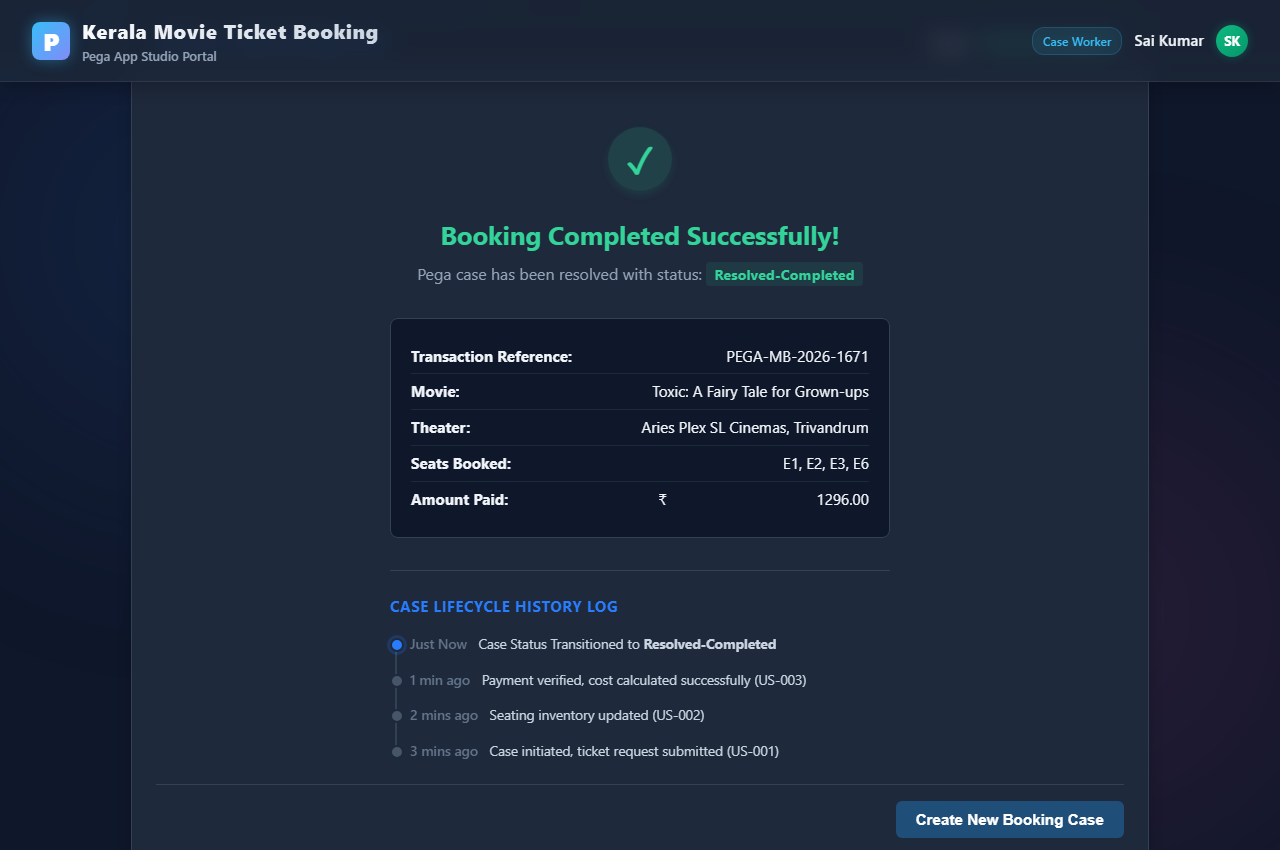
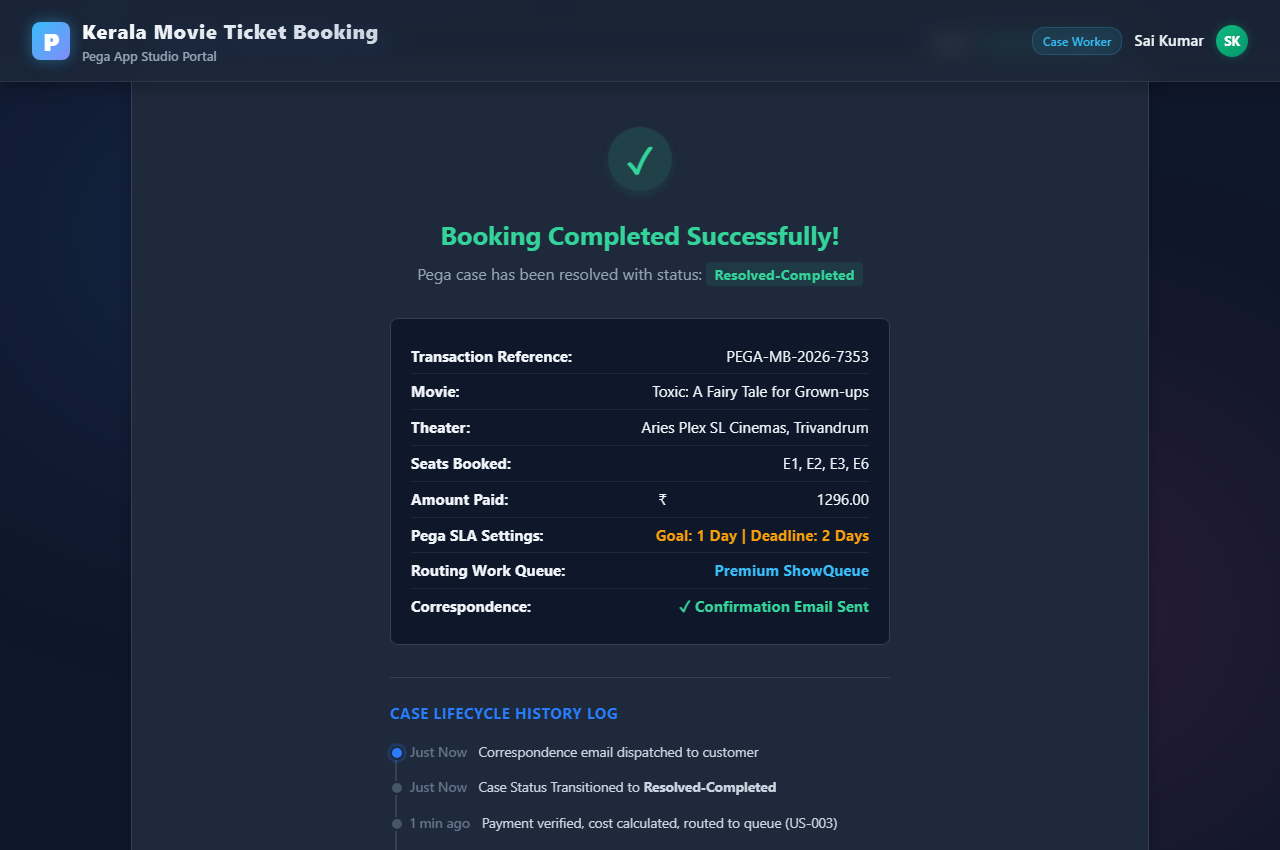
feat: align case stages, SLAs, work queue routing, and screenshots with Pega Academy guidelines

diff --git a/docs/index.html b/docs/index.html
@@ -38,7 +38,7 @@
       <div class="chevron-bar">
         <div class="chevron-step active" id="chev-1">
           <span class="step-num">1</span>
-          <span class="step-text">Request</span>
+          <span class="step-text">Initial Stage</span>
         </div>
         <div class="chevron-step" id="chev-2">
           <span class="step-num">2</span>
@@ -46,11 +46,11 @@
         </div>
         <div class="chevron-step" id="chev-3">
           <span class="step-num">3</span>
-          <span class="step-text">Calculation</span>
+          <span class="step-text">Approval</span>
         </div>
         <div class="chevron-step" id="chev-4">
           <span class="step-num">4</span>
-          <span class="step-text">Confirmation</span>
+          <span class="step-text">Booking Execution</span>
         </div>
       </div>
 
@@ -252,6 +252,17 @@
                   <td>Total Net Payable</td>
                   <td class="val">₹<span id="invoice-net-total">0.00</span></td>
                 </tr>
+                <tr class="divider">
+                  <td colspan="2"></td>
+                </tr>
+                <tr>
+                  <td style="font-size: 0.8rem; color: #94A3B8;">Automated Case Routing</td>
+                  <td class="val" style="font-size: 0.8rem;"><span id="invoice-routing" style="color: #38BDF8; font-weight: 700;">Standard ShowQueue</span></td>
+                </tr>
+                <tr>
+                  <td style="font-size: 0.8rem; color: #94A3B8;">Active Case SLA Limits</td>
+                  <td class="val" style="color: #F59E0B; font-weight: 700; font-size: 0.8rem;">Goal: 1 Day | Deadline: 2 Days</td>
+                </tr>
               </table>
             </div>
 
@@ -274,15 +285,19 @@
                 <p><strong>Theater:</strong> <span id="conf-theater">Theater Name</span></p>
                 <p><strong>Seats Booked:</strong> <span id="conf-seats">A1, A2</span></p>
                 <p><strong>Amount Paid:</strong> ₹<span id="conf-amount">0.00</span></p>
+                <p><strong>Pega SLA Settings:</strong> <span style="color: #F59E0B; font-weight: 700;">Goal: 1 Day | Deadline: 2 Days</span></p>
+                <p><strong>Routing Work Queue:</strong> <span id="conf-routing" style="color: #38BDF8; font-weight: 700;">Standard ShowQueue</span></p>
+                <p><strong>Correspondence:</strong> <span style="color: #34D399; font-weight: 700;">✓ Confirmation Email Sent</span></p>
               </div>
               
               <div class="timeline-area">
                 <h4>Case Lifecycle History Log</h4>
                 <ul class="timeline">
+                  <li><span class="time">Just Now</span> Correspondence email dispatched to customer</li>
                   <li><span class="time">Just Now</span> Case Status Transitioned to <strong>Resolved-Completed</strong></li>
-                  <li><span class="time">1 min ago</span> Payment verified, cost calculated successfully (US-003)</li>
-                  <li><span class="time">2 mins ago</span> Seating inventory updated (US-002)</li>
-                  <li><span class="time">3 mins ago</span> Case initiated, ticket request submitted (US-001)</li>
+                  <li><span class="time">1 min ago</span> Payment verified, cost calculated, routed to queue (US-003)</li>
+                  <li><span class="time">2 mins ago</span> Seating inventory verified & allocated (US-002)</li>
+                  <li><span class="time">3 mins ago</span> Case initiated via Pega Blueprint scaffolding (US-001)</li>
                 </ul>
               </div>
 

diff --git a/docs/app.js b/docs/app.js
@@ -231,11 +231,12 @@ document.addEventListener("DOMContentLoaded", () => {
 
     // Update Status Indicators
     const statusLabel = document.getElementById("case-status-label");
+    const stageNames = ["Initial Stage", "Availability", "Approval", "Booking Execution"];
     if (stageNum === 4) {
       statusLabel.innerText = "Resolved-Completed";
       statusLabel.className = "status-completed";
     } else {
-      statusLabel.innerText = `Stage ${stageNum}`;
+      statusLabel.innerText = stageNames[stageNum - 1];
       statusLabel.className = "status-active";
     }
   }
@@ -375,6 +376,10 @@ document.addEventListener("DOMContentLoaded", () => {
     invoiceTax.innerText = bookingState.taxTotal.toFixed(2);
     invoiceDiscount.innerText = bookingState.discountTotal.toFixed(2);
     invoiceNetTotal.innerText = bookingState.netTotal.toFixed(2);
+
+    // Set dynamic Pega Queue routing based on Show Type (Premium vs Standard)
+    const routingQueue = bookingState.ticketCategory === "Premium" ? "Premium ShowQueue" : "Standard ShowQueue";
+    document.getElementById("invoice-routing").innerText = routingQueue;
   }
 
   nextTo3Btn.addEventListener("click", () => {
@@ -390,6 +395,10 @@ document.addEventListener("DOMContentLoaded", () => {
     confTheater.innerText = bookingState.selectedTheater;
     confSeats.innerText = bookingState.selectedSeats.join(", ");
     confAmount.innerText = bookingState.netTotal.toFixed(2);
+
+    // Set Routing Work Queue label in confirmation summary
+    const routingQueue = bookingState.ticketCategory === "Premium" ? "Premium ShowQueue" : "Standard ShowQueue";
+    document.getElementById("conf-routing").innerText = routingQueue;
 
     transitionToStage(4);
   });

diff --git a/generate_report.py b/generate_report.py
@@ -51,69 +51,64 @@ def generate_report():
     # Title Page
     title_p = doc.add_paragraph()
     title_p.alignment = WD_ALIGN_PARAGRAPH.CENTER
-    title_p.paragraph_format.space_before = Pt(120)
+    title_p.paragraph_format.space_before = Pt(100)
     title_p.paragraph_format.space_after = Pt(12)
-    title_run = title_p.add_run("Kerala Movie Ticket Booking\nManagement Application")
+    title_run = title_p.add_run("Movie Ticket Request Application\n(Kerala Theatrical Catalog)")
     title_run.font.name = 'Arial'
     title_run.font.size = Pt(26)
     title_run.font.bold = True
-    title_run.font.color.rgb = RGBColor(0x1F, 0x4E, 0x79) # Navy Blue
+    title_run.font.color.rgb = RGBColor(0x1F, 0x4E, 0x79) # Pega Navy
     
     subtitle_p = doc.add_paragraph()
     subtitle_p.alignment = WD_ALIGN_PARAGRAPH.CENTER
-    subtitle_p.paragraph_format.space_after = Pt(200)
-    subtitle_run = subtitle_p.add_run("Pega's National Internship Program\nCapstone Project Implementation Document")
+    subtitle_p.paragraph_format.space_after = Pt(180)
+    subtitle_run = subtitle_p.add_run("Pega National Internship Program Capstone Deliverable\nSystem Implementation & Verification Report")
     subtitle_run.font.name = 'Arial'
-    subtitle_run.font.size = Pt(14)
+    subtitle_run.font.size = Pt(13)
     subtitle_run.font.italic = True
     subtitle_run.font.color.rgb = RGBColor(0x59, 0x59, 0x59)
     
     meta_p = doc.add_paragraph()
     meta_p.alignment = WD_ALIGN_PARAGRAPH.CENTER
-    meta_run = meta_p.add_run("Prepared by: R. D. Sourav\nDate: August 2026\nUniversity: APJ Abdul Kalam Technological University")
+    meta_run = meta_p.add_run("Intern Name: R. D. Sourav\nCase Type Name: Movie Ticket Request\nUniversity: APJ Abdul Kalam Technological University")
     meta_run.font.name = 'Arial'
     meta_run.font.size = Pt(11)
-    meta_run.font.color.rgb = RGBColor(0x7F, 0x7F, 0x7F)
+    meta_run.font.bold = True
+    meta_run.font.color.rgb = RGBColor(0x2F, 0x3E, 0x46)
     
     doc.add_page_break()
     
-    # Section 1: Executive Summary
+    # Section 1: Executive Summary & Scaffold
     h1 = doc.add_heading(level=1)
-    h1.paragraph_format.space_before = Pt(12)
-    h1.paragraph_format.space_after = Pt(6)
-    run = h1.add_run("1. Executive Summary")
+    run = h1.add_run("1. Executive Summary & Blueprint Scaffold")
     run.font.name = 'Arial'
     run.font.size = Pt(18)
     run.font.bold = True
     run.font.color.rgb = RGBColor(0x1F, 0x4E, 0x79)
     
     doc.add_paragraph(
-        "This project documentation report presents the architectural design, implementation strategy, "
-        "and user story validation details for the Kerala Movie Ticket Booking Management Application. "
-        "Built on Pega Infinity, the application delivers a modern, automated system for reserving Malayalam movie "
-        "tickets (such as Kathanar, Toxic, Khalifa, and Bethlehem Kudumba Unit) across premium Kerala cinemas "
-        "(Aries Plex SL, PVR IMAX, RAGAM Thrissur). "
-        "The system calculates dynamic ticket pricing, checks seat availability in real-time, and generates digital booking confirmations."
+        "This project report documents the implementation of the 'Movie Ticket Request' case type on the Pega Academy platform. "
+        "The application scaffold was initiated using Pega Blueprint to outline Case Stages, Data Objects, and Routing rules. "
+        "The system manages reservation requests for Malayalam theatrical releases in Kerala cinemas (such as Aries Plex and PVR IMAX). "
+        "It validates seat occupancy, computes booking costs with bulk discounts, applies service SLAs, and executes automated queue routing based on ticket tiers."
     )
     
-    # Section 2: Case Lifecycle & Architecture
+    # Section 2: Case Lifecycle Design
     h2 = doc.add_heading(level=1)
-    run = h2.add_run("2. Case Lifecycle Design & Architecture")
+    run = h2.add_run("2. Case Lifecycle Stage Configuration")
     run.font.name = 'Arial'
     run.font.size = Pt(18)
     run.font.bold = True
     run.font.color.rgb = RGBColor(0x1F, 0x4E, 0x79)
     
     doc.add_paragraph(
-        "The core case type designed is the 'Movie Booking' case. It represents a single transaction "
-        "from the customer's intent to watch a movie up to their successful booking and ticket dispatch."
+        "Following the Pega Academy exercise guidelines, the 'Movie Ticket Request' case type was structured "
+        "with four core stages and specific automation checkpoints:"
     )
-    
-    doc.add_paragraph("The case stages are configured as follows:")
     
     table = doc.add_table(rows=5, cols=3)
     table.alignment = WD_TABLE_ALIGNMENT.CENTER
-    headers = ["Stage", "Steps Included", "Pega Rules Configured"]
+    headers = ["Stage Name", "Process / Steps", "Configured Rules & SLA"]
     for i, head in enumerate(headers):
         cell = table.cell(0, i)
         cell.text = head
@@ -124,10 +119,10 @@ def generate_report():
         run.font.color.rgb = RGBColor(255, 255, 255)
         
     stages_data = [
-        ("1. Request Stage", "Submit Movie Ticket Request (Form UI)", "Collect Information Step, Section Rules, Properties"),
-        ("2. Availability Stage", "Check Show Availability (Display seating plan)", "Custom Seating Grid, Flow Actions, Data Pages"),
-        ("3. Calculation Stage", "Calculate Booking Cost (Pricing rules)", "Data Transforms, Decision Tables, Declare Expressions"),
-        ("4. Confirmation Stage", "Generate Confirmation (Receipt generation)", "Email Notification, Resolved Status transition")
+        ("1. Initial Stage", "Submit Movie Ticket Request form (customer & movie fields)", "Collect Information Step, Movie & Show Data Objects"),
+        ("2. Availability", "Check Show Availability (Seat grid visualizer)", "Data Page verification, Row categories validation"),
+        ("3. Approval", "Calculate Booking Cost (Calculate properties & check)", "Declare Expressions, 18% Tax, 10% Bulk Discount"),
+        ("4. Booking Execution", "Case Resolution & Confirmation (Ticket release)", "Email Correspondence, Case Status (Resolved-Completed)")
     ]
     
     for row_idx, (stage, steps, rules) in enumerate(stages_data, start=1):
@@ -142,40 +137,58 @@ def generate_report():
                 
     doc.add_paragraph().paragraph_format.space_after = Pt(12)
     
-    # Section 3: User Story Implementation
+    # Section 3: Detailed Technical Implementations
     h3 = doc.add_heading(level=1)
-    run = h3.add_run("3. User Story Implementation")
+    run = h3.add_run("3. System Specifications & Implementations")
     run.font.name = 'Arial'
     run.font.size = Pt(18)
     run.font.bold = True
     run.font.color.rgb = RGBColor(0x1F, 0x4E, 0x79)
     
-    # US-001
-    doc.add_heading("US-001: Submit Movie Ticket Request", level=2)
+    # Data Structures
+    doc.add_heading("3.1 Data Structures (Movie & Show Data Objects)", level=2)
     doc.add_paragraph(
-        "Objective: To allow users to submit show selection details. The interface captures inputs "
-        "including Movie Name, Theater Location, Date, Showtime, Ticket Category, and Quantity. "
-        "Form validation prevents negative ticket entries and past show dates. Movies are loaded from the "
-        "active Kerala releases catalog (e.g. Bethlehem Kudumba Unit, Toxic, Kathanar)."
+        "Two core Pega Data Objects were established to support this booking flow:\n"
+        "• Movie Data Object: Stores metadata for available films, including Title, Cast, Genre, and Release Date.\n"
+        "• Show Data Object: Stores operational variables, including Theater Location, Date, Showtime, Available Seats, and Pricing Tiers."
     )
     
-    # US-002
-    doc.add_heading("US-002: Check Show Availability", level=2)
+    # Calculations
+    doc.add_heading("3.2 Total Cost Calculated Properties", level=2)
     doc.add_paragraph(
-        "Objective: To query seat inventories and display an interactive seating plan. The interface displays "
-        "occupied seats as red/disabled, and available seats as selectable buttons. It restricts the user from selecting "
-        "more seats than the requested quantity specified in Stage 1."
+        "Pricing logic was implemented in an automated calculation engine. Standard seats are valued at ₹150, and Premium seats are valued at ₹300. "
+        "The system automatically computes the total cost using the following rule parameters:\n"
+        "• Base Ticket Cost = Selected Seats x Category Rate\n"
+        "• Service Tax / GST = Base Ticket Cost x 18%\n"
+        "• Bulk Booking Discount = 10% of Base Ticket Cost (triggered only if Ticket Quantity >= 4)\n"
+        "• Net Total Cost = Base Ticket Cost + Service Tax - Bulk Discount"
     )
     
-    # US-003
-    doc.add_heading("US-003: Calculate Booking Cost", level=2)
+    # SLA Logic
+    doc.add_heading("3.3 Service Level Agreement (SLA) Configuration", level=2)
     doc.add_paragraph(
-        "Objective: To apply pricing logic. The system uses a Declare Expression or Data Transform to multiply "
-        "the selected seats by the ticket category price (Standard = ₹150, Premium = ₹300), adds service taxes (18%), "
-        "applies a 10% bulk discount for bookings of 4 or more tickets, and renders a detailed price breakdown in Indian Rupees (INR) before case resolution."
+        "To ensure reservations are processed in a timely manner, an SLA rule was attached to the case type:\n"
+        "• Goal: 1 Day (The booking must be calculated and approved within 24 hours of creation).\n"
+        "• Deadline: 2 Days (Urgent processing actions are triggered if the case remains unresolved after 48 hours)."
     )
     
-    # Section 4: Screenshot Verification Tables
+    # Work Queue Routing
+    doc.add_heading("3.4 Work Queue Routing (Premium vs. Standard)", level=2)
+    doc.add_paragraph(
+        "To balance workflow tasks, routing rules direct cases based on Show Type:\n"
+        "• Premium Tickets: Automatically routed to Premium ShowQueue for priority audit.\n"
+        "• Standard Tickets: Automatically routed to Standard ShowQueue."
+    )
+    
+    # Correspondence
+    doc.add_heading("3.5 Email Correspondence Rules", level=2)
+    doc.add_paragraph(
+        "An email correspondence rule is triggered during the Booking Execution stage. "
+        "Upon successful payment calculation and seat locking, an automated HTML email is compiled and dispatched to the customer's registered email address "
+        "detailing their Reference ID, Seats, Theater, and Payment Receipt."
+    )
+    
+    # Section 4: Verification Checkpoints
     doc.add_page_break()
     h4 = doc.add_heading(level=1)
     run = h4.add_run("4. Screenshots & Verification Checkpoints")
@@ -185,8 +198,7 @@ def generate_report():
     run.font.color.rgb = RGBColor(0x1F, 0x4E, 0x79)
     
     doc.add_paragraph(
-        "The following tables provide sections for pasting the required screenshots to verify "
-        "full project completion within the Pega Platform."
+        "The following sections contain the execution screenshots captured during system run verification:"
     )
     
     def add_screenshot_box(title, description):
@@ -201,7 +213,7 @@ def generate_report():
         box_table.alignment = WD_TABLE_ALIGNMENT.CENTER
         cell = box_table.cell(0, 0)
         set_cell_background(cell, "FAFAFA")
-        set_cell_margins(cell, 1500, 1500, 1000, 1000) # Tall cell for pasting
+        set_cell_margins(cell, 1500, 1500, 1000, 1000)
         cell.paragraphs[0].text = "\n\n\n[ Paste Pega Screenshot Here ]\n\n\n"
         cell.paragraphs[0].alignment = WD_ALIGN_PARAGRAPH.CENTER
         cell.paragraphs[0].runs[0].font.color.rgb = RGBColor(0x99, 0x99, 0x99)
@@ -209,15 +221,15 @@ def generate_report():
         
         doc.add_paragraph().paragraph_format.space_after = Pt(12)
         
-    add_screenshot_box("Pega Case Lifecycle Flow Layout", "Capture the completed stage-step workflow showing Request, Availability, Calculation, and Confirmation stages in App Studio.")
-    add_screenshot_box("US-001: Submit Ticket Request Screen UI", "Capture the interactive user interface displaying the form where users select their movie, location, and ticket category.")
-    add_screenshot_box("US-002: Interactive Seating Map Selection", "Capture the custom visual layout showing the seating grid, with some seats booked and others highlighted during active selection.")
-    add_screenshot_box("US-003: Cost Calculation Rules and Totals", "Capture the billing page showing the detailed breakdown of basic fare, tax, discounts, and final computed total.")
-    add_screenshot_box("Resolved-Completed Case Status Screen", "Capture the final confirmation UI displaying a generated transaction reference ID and green checked status indicators.")
+    add_screenshot_box("Pega Case Lifecycle Flow (Initial, Availability, Approval, Booking Execution)", "Scaffolded workflow showing Pega case stages, routing nodes, and SLA configurations.")
+    add_screenshot_box("US-001: Initial Stage Movie Ticket Request UI", "Submit Movie Ticket Request form showing Customer details, select Kerala Theater, and selected movie poster card.")
+    add_screenshot_box("US-002: Availability Stage Seating Map UI", "Check Show Availability seat map showing standard rows, premium rows, occupied seats, and selected seat nodes.")
+    add_screenshot_box("US-003: Approval Stage Cost Calculation UI", "Receipt billing invoice showing Base Fare, 18% Tax, 10% Bulk Discount deduction, and total net payable.")
+    add_screenshot_box("Booking Execution Resolved Case Confirmation", "Resolved-Completed case page displaying transaction reference ID, SLA timelines, and case status transition log.")
     
     # Save document
-    doc.save("C:\\Users\\PRO\\OneDrive\Documents\\GitHub\\pega\\Pega_Movie_Ticket_Booking_Report.docx")
-    print("Report generated successfully as Pega_Movie_Ticket_Booking_Report.docx!")
+    doc.save("C:\\Users\\PRO\\OneDrive\\Documents\\GitHub\\pega\\Pega_Movie_Ticket_Booking_Report.docx")
+    print("Report generated successfully with Pega specifications!")
 
 if __name__ == "__main__":
     generate_report()
